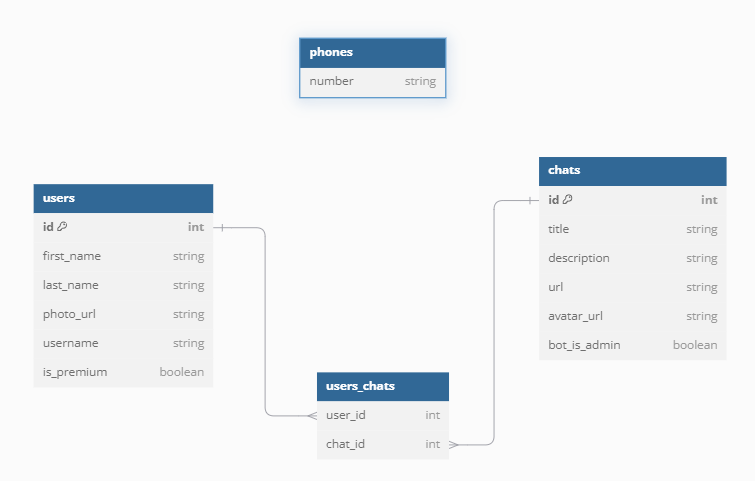
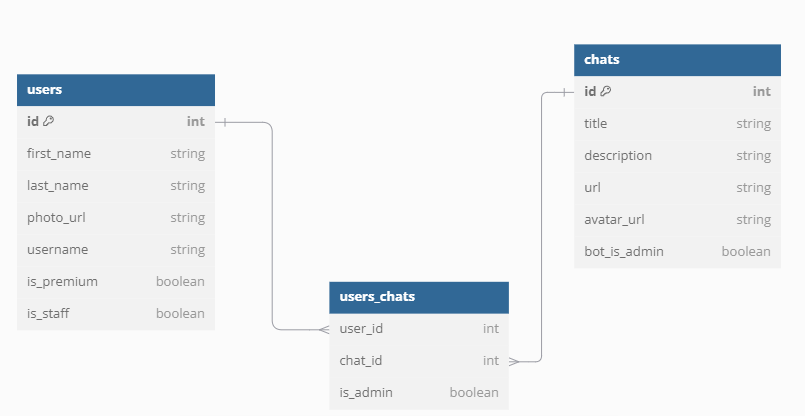
changed UsersChatsSerializer.create() method; dockerized bot

diff --git a/backend/api/tests.py b/backend/api/tests.py
@@ -82,3 +82,27 @@ class APITestCase(TestCase):
         UsersChats.objects.create(user=self.user2, chat=self.chat1)
         rsp = self.client.get(f'{self.url}chats/-1/users/search/?q=u1')
         print(rsp.data)
+
+    def test_users_chats_create(self):
+        is_admin1, is_admin2, is_admin3 = False, True, True
+
+        rsp1 = self.client.post(
+            f'{self.url}users-chats/',
+            {'user': self.user1.id, 'chat': self.chat1.id, 'is_admin': is_admin1}
+        )
+        self.assertEqual(rsp1.data['is_admin'], is_admin1)
+
+        rsp2 = self.client.post(
+            f'{self.url}users-chats/',
+            {'user': self.user1.id, 'chat': self.chat1.id, 'is_admin': is_admin2}
+        )
+        self.assertEqual(rsp2.data['is_admin'], is_admin2)
+
+        rsp3 = self.client.post(
+            f'{self.url}users-chats/',
+            {'user': self.user2.id, 'chat': self.chat1.id, 'is_admin': is_admin3}
+        )
+        self.assertEqual(rsp3.data['is_admin'], is_admin3)
+
+        self.assertEqual(rsp1.data['id'], rsp2.data['id'])
+        self.assertNotEqual(rsp2.data['id'], rsp3.data['id'])

diff --git a/backend/api/serializers.py b/backend/api/serializers.py
@@ -1,3 +1,4 @@
+from django.db import IntegrityError
 from rest_framework.serializers import ModelSerializer
 
 from . import models, utils
@@ -38,6 +39,17 @@ class UsersChatsSerializer(ModelSerializer):
     class Meta:
         model = models.UsersChats
         fields = '__all__'
+
+    def create(self, validated_data: dict):
+        is_admin = validated_data.pop('is_admin', None)
+        try:
+            obj = models.UsersChats.objects.get(**validated_data)
+            obj.is_admin = is_admin
+            obj.save()
+            return obj
+        except models.UsersChats.DoesNotExist:
+            validated_data.setdefault('is_admin', is_admin)
+            return models.UsersChats.objects.create(**validated_data)
 
 
 class UsersChatsWithUserSerializer(ModelSerializer):
